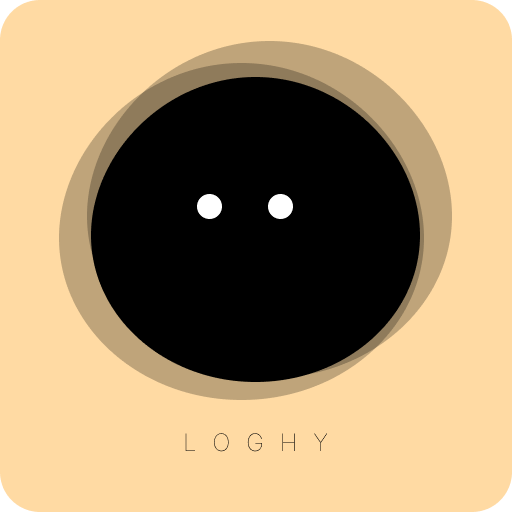
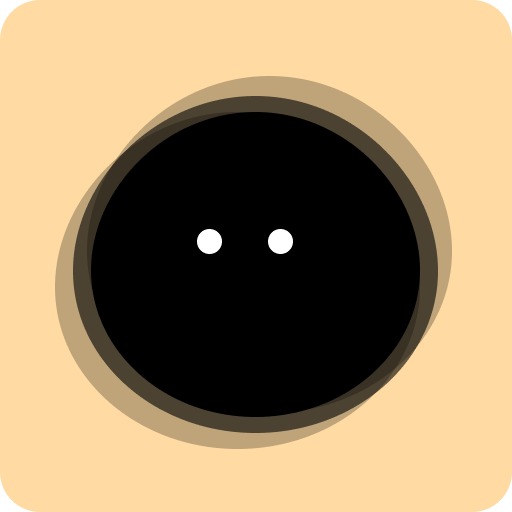
Update brand assets and generate the Play feature graphic
Icon revised: wordmark removed, which fixes legibility at real icon size.

feature-graphic-1024x500.png generated from the new cover. Play requires
exactly 1024x500 and the cover is 1920x1080, so the artwork is scaled to
889x500 and centred on a field of its own background colour (#FFDAA3,
sampled from the corners) rather than cropped — nothing in the composition
is lost. Drawn with WrapMode.TileFlipXY to avoid the 1px bright seam GDI+
leaves at the padding boundary.

All store assets are now complete.

Changed region(s): [[0.0938, 0.0625, 0.9062, 0.875], [0.5, 0.375, 0.5938, 0.5], [0.375, 0.375, 0.4375, 0.5]]

diff --git a/play-assets/README.md b/play-assets/README.md
@@ -30,40 +30,39 @@ strongest openers because they show the app actually doing something.
 
 ### App icon — `icon-512.png` ✅ ready
 
-512 × 512, 32-bit PNG, 15 KB (well under Play's 1 MB limit). Uploadable as-is.
+512 × 512, 32-bit PNG, 17 KB (well under Play's 1 MB limit). Upload as-is.
 
-Two notes for a future revision, neither blocking:
+The wordmark was removed in this revision, which is right — at a real home-screen
+size of about 48 dp it was illegible, and Google's icon guidance advises against
+text. The face alone is distinctive and reads clearly when small.
 
-- **It has its own rounded corners.** Play applies its own corner mask and drop
-  shadow on top, so a baked-in radius can read as double-rounded. Icons usually look
-  cleanest as a full-bleed square, letting Play do the rounding.
-- **The "LOGHY" wordmark at the bottom** disappears at real icon size (48 dp on a
-  home screen — roughly a fingernail). Google's icon guidance advises against text
-  for this reason. The face alone is strong and distinctive enough to carry it.
+The warm yellow is a good call: it stands out in a grid of white and blue icons, and
+it contrasts with the app's calm parchment interior rather than repeating it.
 
-The warm yellow is a good call — it stands out in a grid of white and blue icons,
-and it contrasts with the app's calm parchment interior rather than competing with it.
+One note for a future revision, not blocking: the artwork has its own rounded
+corners, and Play applies its own corner mask and drop shadow on top, which can read
+as double-rounded. Icons usually look cleanest as a full-bleed square with the
+rounding left to Play.
 
-### Feature graphic — ⚠ needs re-export
+### Feature graphic — `feature-graphic-1024x500.png` ✅ ready
 
-`brand/cover-1920x1080.png` is the cover art, kept here as the source.
+Generated from `brand/cover-1920x1080.png`, which is kept here as the source.
 
-Play's feature graphic must be exactly **1024 × 500** (about 2.05:1). The cover is
-1920 × 1080 (16:9), so it cannot simply be scaled — the proportions differ and a
-naive resize would squash it.
+Play requires exactly **1024 × 500** (about 2.05:1). The cover is 1920 × 1080 (16:9),
+so it could not simply be scaled. Rather than crop — which would have cut the corner
+lines — the artwork is scaled to 889 × 500 and centred on a 1024 × 500 field filled
+with the cover's own background colour, `#FFDAA3`. The corners sample as exactly that
+value, so the padding is seamless and nothing in the composition is lost.
 
-**Please re-export from your design file at 1024 × 500.** The composition is centred
-with generous space, so it should adapt easily: keep "loghy" centred, keep "CREATIVE
-SAFE SPACE" beneath it, and let the parchment field do the rest.
+> Built with GDI+ using `WrapMode.TileFlipXY`. Without it, GDI+ samples past the
+> source edge and leaves a 1 px bright seam at the padding boundary — visible as a
+> faint vertical line. Worth remembering if this is ever regenerated.
 
-Two things to keep in mind while laying it out:
-
-- Play crops the feature graphic differently across surfaces, and sometimes overlays
-  a play button. **Keep text away from the outer edges and clear of the centre.**
-- It is often shown small. "CREATIVE SAFE SPACE" at its current relative size may
-  become unreadable — consider sizing it up slightly.
-
-Save it here as `feature-graphic-1024x500.png`.
+**Worth knowing before launch:** the four corner lines — *a companion*, *with
+personality*, *creativity*, *is never easy* — sit close to the edges. Play crops this
+graphic differently across surfaces and sometimes overlays a play button, so corner
+text is the first thing to get clipped. It is fine as is, but if you ever re-lay the
+cover out natively at 1024 × 500, pulling those lines inward would make them safer.
 
 ---
 
@@ -189,8 +188,8 @@ that version is unreadable.
 - [ ] Privacy policy hosted at a public URL
 - [ ] Data Safety form filled in (see `PLAY_DATA_SAFETY.md`)
 - [x] App icon 512 × 512 — play-assets/icon-512.png
-- [ ] Feature graphic 1024 × 500 — re-export from brand/cover-1920x1080.png
-- [ ] 2–8 phone screenshots (five are in this folder)
-- [ ] Short and full description
+- [x] Feature graphic 1024 × 500 — play-assets/feature-graphic-1024x500.png
+- [x] 2–8 phone screenshots — five in play-assets/screenshots/
+- [x] Short and full description — in this file
 - [ ] Content rating questionnaire
 - [ ] Target audience set to 13+ or 18+, not under-13
